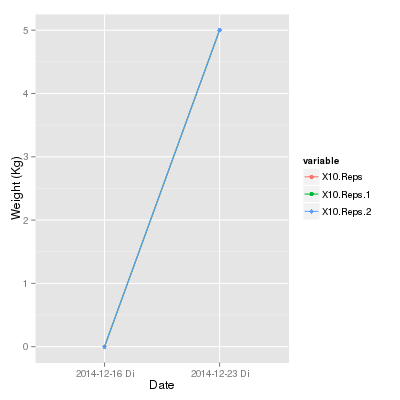
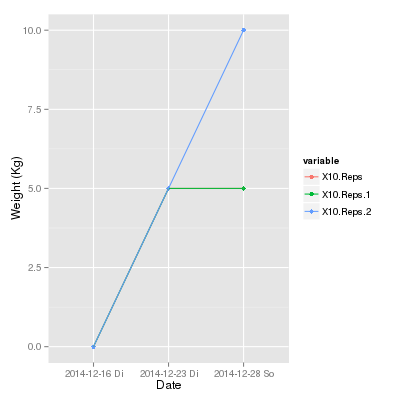
fixed a bug in shoulders template

diff --git a/statistics.html b/statistics.html
@@ -4,7 +4,7 @@
 <html xmlns="http://www.w3.org/1999/xhtml" lang="en" xml:lang="en">
 <head>
 <title>Statistics</title>
-<!-- 2014-12-28 So 16:09 -->
+<!-- 2014-12-28 So 17:52 -->
 <meta  http-equiv="Content-Type" content="text/html;charset=utf-8" />
 <meta  name="generator" content="Org-mode" />
 <meta  name="author" content="thomas" />
@@ -218,7 +218,6 @@ for the JavaScript code in this tag.
 <li><a href="#sec-2-5-4">2.5.4. Alt. Front Raise</a></li>
 <li><a href="#sec-2-5-5">2.5.5. Plate Twist-Twist</a></li>
 <li><a href="#sec-2-5-6">2.5.6. Reverse Fly</a></li>
-<li><a href="#sec-2-5-7">2.5.7. Plank Twist-Twist</a></li>
 </ul>
 </li>
 </ul>
@@ -2038,6 +2037,13 @@ q
 <td class="right">5</td>
 <td class="right">7.5</td>
 </tr>
+
+<tr>
+<td class="left">2014-12-28 So</td>
+<td class="right">4</td>
+<td class="right">5</td>
+<td class="right">5</td>
+</tr>
 </tbody>
 </table>
 
@@ -2097,6 +2103,14 @@ q
 <td class="right">12.5</td>
 <td class="right">7.5</td>
 </tr>
+
+<tr>
+<td class="left">2014-12-28 So</td>
+<td class="right">7.5</td>
+<td class="right">8.75</td>
+<td class="right">10</td>
+<td class="right">8.75</td>
+</tr>
 </tbody>
 </table>
 
@@ -2107,7 +2121,6 @@ q
 </div>
 </div>
 </div>
-
 
 <div id="outline-container-sec-2-5-3" class="outline-4">
 <h4 id="sec-2-5-3"><span class="section-number-4">2.5.3</span> Upright Row</h4>
@@ -2167,6 +2180,16 @@ q
 <td class="right">6.25</td>
 <td class="right">5</td>
 </tr>
+
+<tr>
+<td class="left">2014-12-28 So</td>
+<td class="right">6.25</td>
+<td class="right">7.5</td>
+<td class="right">8.75</td>
+<td class="right">8.75</td>
+<td class="right">6.25</td>
+<td class="right">5</td>
+</tr>
 </tbody>
 </table>
 
@@ -2177,7 +2200,6 @@ q
 </div>
 </div>
 </div>
-
 
 <div id="outline-container-sec-2-5-4" class="outline-4">
 <h4 id="sec-2-5-4"><span class="section-number-4">2.5.4</span> Alt. Front Raise</h4>
@@ -2218,6 +2240,13 @@ q
 
 <tr>
 <td class="left">2014-12-23 Di</td>
+<td class="right">4</td>
+<td class="right">5</td>
+<td class="right">7.5</td>
+</tr>
+
+<tr>
+<td class="left">2014-12-28 So</td>
 <td class="right">4</td>
 <td class="right">5</td>
 <td class="right">7.5</td>
@@ -2275,6 +2304,13 @@ q
 <td class="right">5</td>
 <td class="right">5</td>
 <td class="right">5</td>
+</tr>
+
+<tr>
+<td class="left">2014-12-28 So</td>
+<td class="right">5</td>
+<td class="right">5</td>
+<td class="right">10</td>
 </tr>
 </tbody>
 </table>
@@ -2345,6 +2381,16 @@ q
 <td class="right">4</td>
 <td class="right">3</td>
 </tr>
+
+<tr>
+<td class="left">2014-12-28 So</td>
+<td class="right">4</td>
+<td class="right">5</td>
+<td class="right">5</td>
+<td class="right">5</td>
+<td class="right">4</td>
+<td class="right">3</td>
+</tr>
 </tbody>
 </table>
 
@@ -2355,57 +2401,9 @@ q
 </div>
 </div>
 </div>
-
-<div id="outline-container-sec-2-5-7" class="outline-4">
-<h4 id="sec-2-5-7"><span class="section-number-4">2.5.7</span> Plank Twist-Twist</h4>
-<div class="outline-text-4" id="text-2-5-7">
-<div class="org-src-container">
-
-<pre class="src src-emacs-lisp" id="planktwisttwist">(make-table <span style="font-style: italic;">"+bulk:shoulders"</span> <span style="font-style: italic;">"Plank Twist-Twist"</span> <span style="font-style: italic;">"singleset30s"</span>)
-</pre>
-</div>
-
-<table border="2" cellspacing="0" cellpadding="6" rules="groups" frame="hsides">
-
-
-<colgroup>
-<col  class="left" />
-
-<col  class="right" />
-
-<col  class="right" />
-</colgroup>
-<thead>
-<tr>
-<th scope="col" class="left">Date</th>
-<th scope="col" class="right">30 Sec.</th>
-<th scope="col" class="right">30 Sec.</th>
-</tr>
-</thead>
-<tbody>
-<tr>
-<td class="left">2014-12-16 Di</td>
-<td class="right">0</td>
-<td class="right">0</td>
-</tr>
-
-<tr>
-<td class="left">2014-12-23 Di</td>
-<td class="right">4</td>
-<td class="right">4</td>
-</tr>
-</tbody>
-</table>
-
-
-<div class="figure">
-<p><img src="img/planktwisttwist-r.png" alt="planktwisttwist-r.png" />
-</p>
 </div>
 </div>
-</div>
-</div>
-</div>
+
 
 <div id="outline-container-sec-3" class="outline-2">
 <h2 id="sec-3"><span class="section-number-2">3</span> Running</h2>
@@ -2458,7 +2456,7 @@ q
 </div>
 <div id="postamble" class="status">
 <p class="author">Author: thomas</p>
-<p class="date">Created: 2014-12-28 So 16:09</p>
+<p class="date">Created: 2014-12-28 So 17:52</p>
 <p class="creator"><a href="http://www.gnu.org/software/emacs/">Emacs</a> 24.3.50.1 (<a href="http://orgmode.org">Org</a> mode 8.2.10)</p>
 <p class="validation"><a href="http://validator.w3.org/check?uri=referer">Validate</a></p>
 </div>

diff --git a/statistics.md b/statistics.md
@@ -66,7 +66,6 @@
 <li><a href="#sec-2-5-4">2.5.4. Alt. Front Raise</a></li>
 <li><a href="#sec-2-5-5">2.5.5. Plate Twist-Twist</a></li>
 <li><a href="#sec-2-5-6">2.5.6. Reverse Fly</a></li>
-<li><a href="#sec-2-5-7">2.5.7. Plank Twist-Twist</a></li>
 </ul>
 </li>
 </ul>
@@ -1617,6 +1616,14 @@ I also go running once in a while. Graph the results:
 <td class="right">5</td>
 <td class="right">7.5</td>
 </tr>
+
+
+<tr>
+<td class="left">2014-12-28 So</td>
+<td class="right">4</td>
+<td class="right">5</td>
+<td class="right">5</td>
+</tr>
 </tbody>
 </table>
 
@@ -1666,6 +1673,15 @@ I also go running once in a while. Graph the results:
 <td class="right">8.75</td>
 <td class="right">12.5</td>
 <td class="right">7.5</td>
+</tr>
+
+
+<tr>
+<td class="left">2014-12-28 So</td>
+<td class="right">7.5</td>
+<td class="right">8.75</td>
+<td class="right">10</td>
+<td class="right">8.75</td>
 </tr>
 </tbody>
 </table>
@@ -1727,6 +1743,17 @@ I also go running once in a while. Graph the results:
 <td class="right">6.25</td>
 <td class="right">5</td>
 </tr>
+
+
+<tr>
+<td class="left">2014-12-28 So</td>
+<td class="right">6.25</td>
+<td class="right">7.5</td>
+<td class="right">8.75</td>
+<td class="right">8.75</td>
+<td class="right">6.25</td>
+<td class="right">5</td>
+</tr>
 </tbody>
 </table>
 
@@ -1768,6 +1795,14 @@ I also go running once in a while. Graph the results:
 
 <tr>
 <td class="left">2014-12-23 Di</td>
+<td class="right">4</td>
+<td class="right">5</td>
+<td class="right">7.5</td>
+</tr>
+
+
+<tr>
+<td class="left">2014-12-28 So</td>
 <td class="right">4</td>
 <td class="right">5</td>
 <td class="right">7.5</td>
@@ -1816,6 +1851,14 @@ I also go running once in a while. Graph the results:
 <td class="right">5</td>
 <td class="right">5</td>
 <td class="right">5</td>
+</tr>
+
+
+<tr>
+<td class="left">2014-12-28 So</td>
+<td class="right">5</td>
+<td class="right">5</td>
+<td class="right">10</td>
 </tr>
 </tbody>
 </table>
@@ -1877,50 +1920,21 @@ I also go running once in a while. Graph the results:
 <td class="right">4</td>
 <td class="right">3</td>
 </tr>
+
+
+<tr>
+<td class="left">2014-12-28 So</td>
+<td class="right">4</td>
+<td class="right">5</td>
+<td class="right">5</td>
+<td class="right">5</td>
+<td class="right">4</td>
+<td class="right">3</td>
+</tr>
 </tbody>
 </table>
 
 ![img](img/reversefly2-r.png)
-
-### Plank Twist-Twist<a id="sec-2-5-7" name="sec-2-5-7"></a>
-
-    (make-table "+bulk:shoulders" "Plank Twist-Twist" "singleset30s")
-
-<table border="2" cellspacing="0" cellpadding="6" rules="groups" frame="hsides">
-
-
-<colgroup>
-<col  class="left" />
-
-<col  class="right" />
-
-<col  class="right" />
-</colgroup>
-<thead>
-<tr>
-<th scope="col" class="left">Date</th>
-<th scope="col" class="right">30 Sec.</th>
-<th scope="col" class="right">30 Sec.</th>
-</tr>
-</thead>
-
-<tbody>
-<tr>
-<td class="left">2014-12-16 Di</td>
-<td class="right">0</td>
-<td class="right">0</td>
-</tr>
-
-
-<tr>
-<td class="left">2014-12-23 Di</td>
-<td class="right">4</td>
-<td class="right">4</td>
-</tr>
-</tbody>
-</table>
-
-![img](img/planktwisttwist-r.png)
 
 # Running<a id="sec-3" name="sec-3"></a>
 
